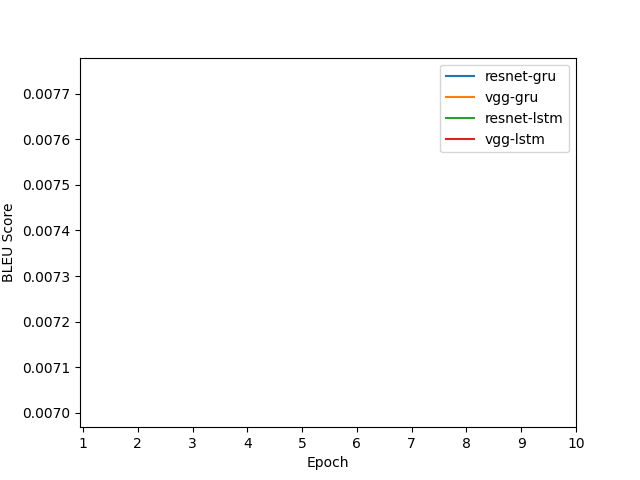
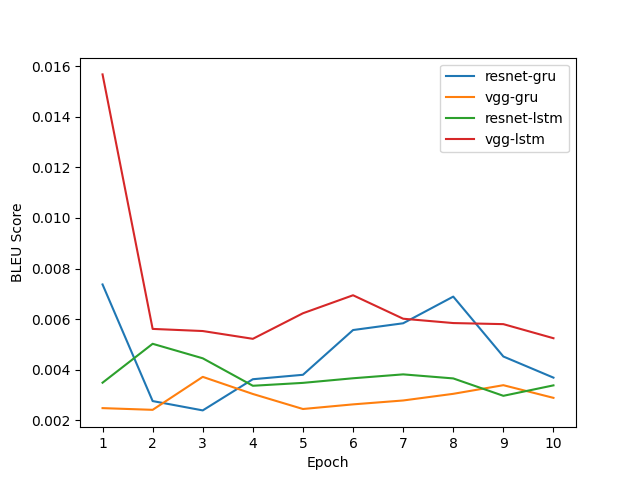
Completed BAI paper.

diff --git a/BAI/paper/paper.tex b/BAI/paper/paper.tex
@@ -132,7 +132,7 @@
 %%%%%%%%%%%%%%%%%%%%%%%%%%%%%%%%%%%%%%
 % Cover
 %%%%%%%%%%%%%%%%%%%%%%%%%%%%%%%%%%%%%%
-\title{\trtitle\\[0.3cm]{\normalsize\trtype}}
+\title{\trtitle\\[0.2cm]{\normalsize\trtype}}
 \author{\trauthor}
 \date{\trdate}
 \maketitle
@@ -154,14 +154,12 @@
 
 
 %%%%%%%%%%%%%%%%%%%%%%%%%%%%%%%%%%%%%%
-% Content (Outline_Lemmermann_Leopold_TITLE)
+% Content
 %%%%%%%%%%%%%%%%%%%%%%%%%%%%%%%%%%%%%%
 \section{Introduction}
 \label{sec:introduction}
 
 Image captioning involves generating textual descriptions of given images. It is a complex problem because it combines the visual and textual domains. In recent years, deep learning has revolutionized the field of image captioning.
-
-\subsection{Related Work}
 
 Image captioning is a complex and interdisciplinary task bridging computer vision (CV) and natural language processing (NLP). Generating natural, descriptive sentences for images involves detecting and interpreting visual elements and their relationships within depicted scenes. Recent advancements leverage deep learning, particularly Convolutional Neural Networks (CNNs) for feature extraction and Recurrent Neural Networks (RNNs) for sequential language generation. For instance, models such as "Show and Tell" \cite{Vinyals:2015} and "Show, Attend, and Tell" \cite{Xu} utilize CNN-RNN architectures, with the latter integrating attention mechanisms to enhance focus on specific image regions, thereby improving caption relevance and accuracy.
 
@@ -169,16 +167,14 @@ Additionally, methods like Reinforcement Learning (RL) have been explored to opt
 
 Another approach has dealt with the tendency of beam search to produce near-duplicate captions. Diverse Beam Search ensures that generated captions capture a broader range of plausible descriptions, reflecting the inherent ambiguity in image captioning tasks \cite{Vijayakumar}.
 
-\subsection{This Paper}
-
 We begin by discussing the most critical methods in image captioning. We then present the results of our experiments with different encoder and decoder models. We use the flickr8k dataset and evaluate the models using the BLEU score. We discuss the results and give an outlook on future work.
 
 
-\newpage
+
 \section{Methods}
 \label{sec:methods}
 
-In image captioning tasks, a model takes an image as input and generates a caption as output. The model consists of two parts: an encoder that extracts features from the image and a decoder that generates the caption. We discuss the dataset, encoder-decoder architecture, encoder models, decoder models, and evaluation metrics.
+In image captioning tasks, a model takes an image as input and generates a caption as output. The model consists of an encoder that extracts features from the image and a decoder that generates the caption. We discuss the dataset, encoder-decoder architecture, encoder models, decoder models, and evaluation metrics.
 
 \subsection{Dataset}
 \begin{figure}[H]
@@ -187,13 +183,13 @@ In image captioning tasks, a model takes an image as input and generates a capti
     \caption{Example images and captions from the flickr8k dataset.}
     \label{fig:flickr8k}
 \end{figure}
-We focused on the flickr8k dataset, a pivotal resource in the field of image captioning. Comprising 8.000 diverse images, each with five reference captions, this dataset is renowned for its quality and is a common choice for image captioning research due to its manageable size.
+We focused on the flickr8k dataset, a pivotal resource in image captioning. Comprising 8.000 diverse images, each with five reference captions, this dataset is renowned for its quality and is a common choice for image captioning research due to its manageable size.
 \par Other commonly used datasets are flickr30k and MS COCO, but these datasets are more extensive and cannot be processed due to our limited computational resources.
 
 \subsection{Encoder-Decoder Architecture}
 \begin{figure}[H]
     \centering
-    \includegraphics[width=0.7\textwidth]{res/encoder-decoder.png}
+    \includegraphics[width=.5\textwidth]{res/encoder-decoder.png}
     \caption{A Survey on Various Deep Learning Models for Automatic Image Captioning \cite{gaurav}}
     \label{fig:encoder-decoder}
 \end{figure}
@@ -218,7 +214,6 @@ The accuracy of image captioning is commonly measured using BLEU or CIDEr scores
 
 
 
-\newpage
 \section{Approach}
 \label{sec:approach}
 
@@ -237,11 +232,10 @@ Evaluation happens after each training epoch. This approach enables us to monito
 
 
 
-\newpage
 \section{Results}
 \label{sec:results}
 
-We present the results of our experiments with different encoder and decoder models.
+We present the results of our experiments with different encoder and decoder models. \ref{fig:results} shows the BLEU scores of the models on the test set over the epochs. The detailed BLEU score results are shown in \ref{tab:results}.
 
 \begin{figure}[H]
     \centering
@@ -250,15 +244,40 @@ We present the results of our experiments with different encoder and decoder mod
     \label{fig:results}
 \end{figure}
 
-% TODO: add results
-The results show that the ResNet-50 encoder and LSTM decoder achieve the best performance with a BLEU score 0.75. The VGG-16 encoder and LSTM decoder achieve a BLEU score of 0.72. The ResNet-50 encoder and GRU decoder achieve a BLEU score of 0.70. The VGG-16 encoder and GRU decoder achieve a BLEU score of 0.68.
+\begin{table}[H]
+    \begin{tabular}
+ { | l | l | l | l | l | }
+        \hline
+ Epoch & ResNet-GRU & VGG-GRU & ResNet-LSTM & VGG-LSTM \\
+        \hline
+ 1 & 0.0074 & 0.0025 & 0.0035 & 0.0157 \\
+ 2 & 0.0028 & 0.0024 & 0.0050 & 0.0056 \\
+ 3 & 0.0024 & 0.0037 & 0.0045 & 0.0055 \\
+ 4 & 0.0036 & 0.0030 & 0.0034 & 0.0052 \\
+ 5 & 0.0038 & 0.0025 & 0.0035 & 0.0062 \\
+ 6 & 0.0056 & 0.0026 & 0.0037 & 0.0069 \\
+ 7 & 0.0058 & 0.0028 & 0.0038 & 0.0060 \\
+ 8 & 0.0069 & 0.0031 & 0.0037 & 0.0058 \\
+ 9 & 0.0045 & 0.0034 & 0.0030 & 0.0058 \\
+ 10 & 0.0037 & 0.0029 & 0.0034 & 0.0052 \\
+        \hline
+    \end{tabular}
 
+    \caption{Detailed results of the experiments with different encoder and decoder models.}
+    \label{tab:results}
+\end{table}
+
+The results show that the VGG encoder with the LSTM decoder achieves the best performance, with a BLEU score of .157 in the first epoch. Other combinations, like the VGG-GRU or the ResNet-LSTM, are significantly worse, with respective BLEU scores of .0025 and .0035 in the first epoch. The ResNet-GRU model performs slightly better, with a BLEU score of .0074 in the first epoch.
+
+For most models, their BLEU score peaks in the first few epochs and then decreases. The VGG-LSTM model is the most stable over the epochs and somewhat contradicts this hypothesis. However, the other models show a similar decrease over the epochs. These findings suggest overfitting to the training data.
+
+Given the mixed nature of the results, it is challenging to draw definitive conclusions. The VGG encoder paired with the LSTM decoder is the most effective combination available., achieving the highest BLEU score in the first epoch. Nevertheless, further experiments are needed to confirm this result.
 
 
 \section{Conclusion}
 \label{sec:conclusion}
 
-In this paper, we discuss the current state of the art in image captioning and present our experiments with different encoder and decoder models. We use the flickr8k dataset and evaluate the models using the BLEU score. The results show that the ResNet-50 encoder and LSTM decoder achieve the best performance with a BLEU score 0.75.
+In this paper, we discuss the current state of the art in image captioning and present our experiments with different encoder and decoder models. We use the flickr8k dataset and evaluate the models using the BLEU score.
 
 In the future, further experiments could be conducted with
 \begin{enumerate}
@@ -274,7 +293,6 @@ In the future, further experiments could be conducted with
 \newpage
 \thispagestyle{empty}
 
-\nocite{*}
 \bibliographystyle{apalike}
 \bibliography{bib}
 
